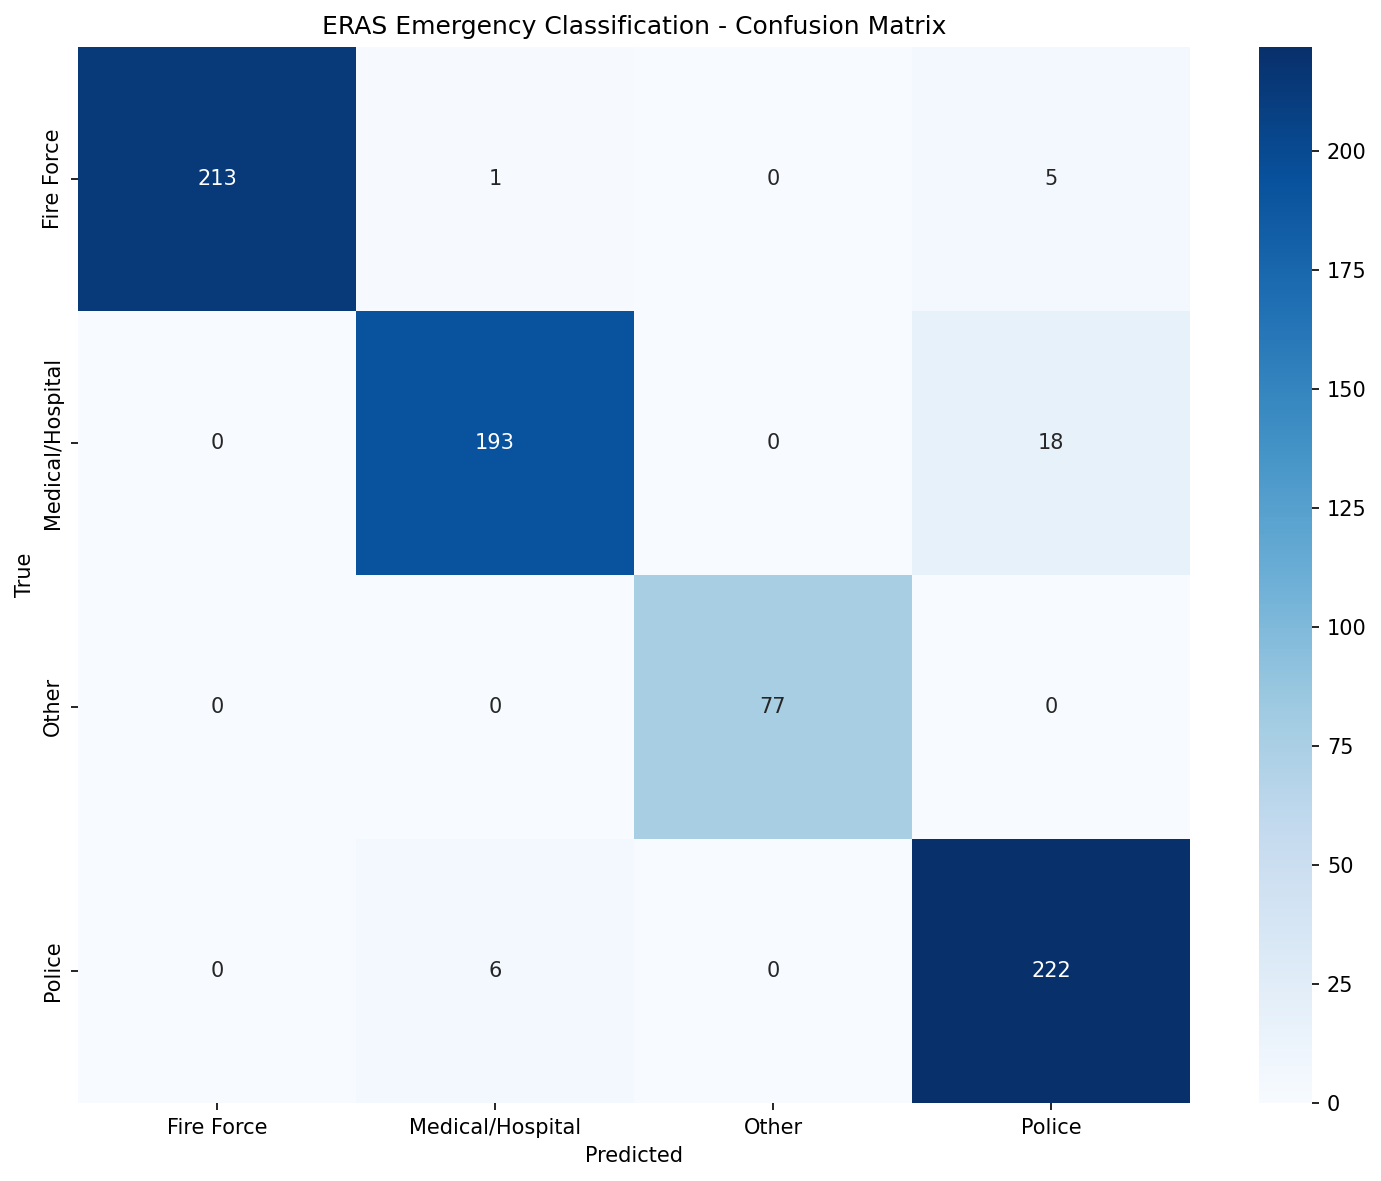
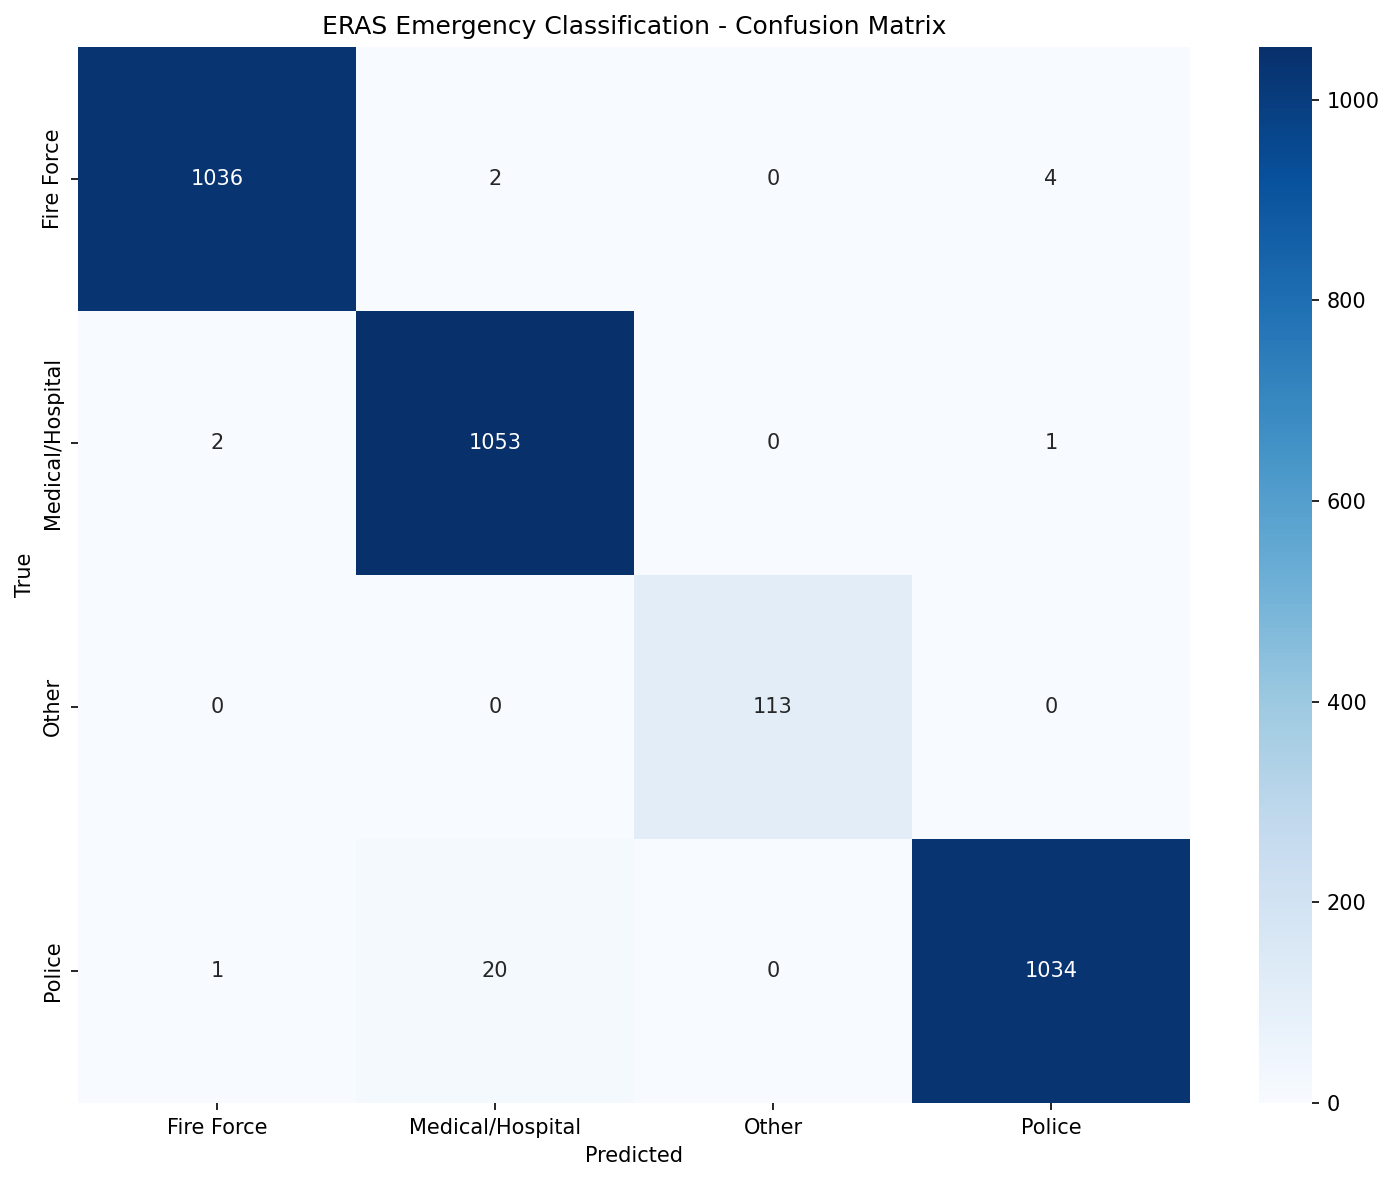
feat: add FastAPI inference endpoint and Gradio web interface, and update model artifacts

diff --git a/deployment/app.py b/deployment/app.py
@@ -1,26 +1,33 @@
 """
-🚨 ERAS Emergency Classifier - Hugging Face Spaces Demo
+🚨 ERAS Emergency Classifier - Hugging Face Spaces Demo & API
 ========================================================
-A simple Gradio web interface for testing the ERAS
-DistilBERT emergency text classifier.
+Serves BOTH a Gradio Web Interface at the root (/) and a secure
+FastAPI REST API (/predict, /predict/batch, /health) on Hugging Face.
 
 Deploy to: https://huggingface.co/spaces
 """
 
+import os
 import json
 import torch
+# pyrefly: ignore [missing-import]
 import gradio as gr
 from pathlib import Path
+from datetime import datetime
+from typing import List, Optional
+from fastapi import FastAPI, HTTPException, Security, Depends, status
+from fastapi.security.api_key import APIKeyHeader
+from fastapi.middleware.cors import CORSMiddleware
+from pydantic import BaseModel, Field
 from transformers import DistilBertTokenizer, DistilBertForSequenceClassification
 
 # ============================================
-# LOAD MODEL
+# LOAD MODEL & CONFIG
 # ============================================
 
 MODEL_DIR = Path("model")
 if not MODEL_DIR.exists():
     MODEL_DIR = Path(__file__).resolve().parent / "model"
-
 
 print("Loading ERAS classifier...")
 tokenizer = DistilBertTokenizer.from_pretrained(MODEL_DIR)
@@ -33,7 +40,7 @@ with open(MODEL_DIR / "label_encoder.json", "r") as f:
 
 print(f"[SUCCESS] Model loaded! Labels: {list(label_decoder.values())}")
 
-# Emoji & color mapping
+# Emoji & color mapping for Gradio UI
 LABEL_INFO = {
     "Fire Force":        {"emoji": "🚒", "color": "#FF4500"},
     "Medical/Hospital":  {"emoji": "🏥", "color": "#00BFFF"},
@@ -42,14 +49,69 @@ LABEL_INFO = {
 }
 
 # ============================================
-# PREDICTION FUNCTION
+# FASTAPI APP & AUTH SETUP
 # ============================================
 
-def classify_emergency(text):
-    """Classify emergency text and return results."""
-    if not text or not text.strip():
-        return {}, "Please enter an emergency report text."
+app = FastAPI(
+    title="ERAS Emergency Classification API",
+    description="Secure REST API for ERAS emergency text classification.",
+    version="1.0.0"
+)
 
+# Enable CORS
+app.add_middleware(
+    CORSMiddleware,
+    allow_origins=["*"],
+    allow_credentials=True,
+    allow_methods=["*"],
+    allow_headers=["*"],
+)
+
+# API Key security
+API_KEY_NAME = "X-API-Key"
+api_key_header = APIKeyHeader(name=API_KEY_NAME, auto_error=True)
+VALID_API_KEY = os.environ.get("ERAS_API_KEY", "eras_secure_api_key_2026")
+
+async def verify_api_key(api_key: str = Security(api_key_header)):
+    """Validates the X-API-Key request header."""
+    if api_key == VALID_API_KEY:
+        return api_key
+    raise HTTPException(
+        status_code=status.HTTP_403_FORBIDDEN,
+        detail="Could not validate credentials. Invalid or missing X-API-Key."
+    )
+
+# ============================================
+# REQUEST / RESPONSE MODELS
+# ============================================
+
+class PredictRequest(BaseModel):
+    text: str = Field(..., min_length=1, max_length=1000, description="Emergency report text")
+    language: Optional[str] = Field("english", description="Language: english, amharic, afaan_oromo")
+
+class PredictResponse(BaseModel):
+    text: str
+    emergency_type: str
+    confidence: float
+    needs_review: bool
+    routing: dict
+    all_scores: dict
+    timestamp: str
+
+class BatchPredictRequest(BaseModel):
+    texts: List[str] = Field(..., min_length=1, max_length=50, description="List of emergency texts")
+
+class BatchPredictResponse(BaseModel):
+    predictions: List[PredictResponse]
+    total: int
+    flagged_for_review: int
+
+# ============================================
+# INFERENCE LOGIC SHARED FUNCTIONS
+# ============================================
+
+def run_model_inference(text: str) -> dict:
+    """Helper function to run tokenizer and model sequence classification."""
     inputs = tokenizer(
         text,
         truncation=True,
@@ -57,59 +119,152 @@ def classify_emergency(text):
         max_length=128,
         return_tensors="pt"
     )
-
+    
     with torch.no_grad():
         outputs = model(**inputs)
         probs = torch.nn.functional.softmax(outputs.logits, dim=1)
-
-    # Build scores dict for Gradio Label component
-    scores = {}
-    for idx in range(probs.shape[1]):
-        label = label_decoder[str(idx)]
-        info = LABEL_INFO.get(label, {"emoji": "❓"})
-        display_name = f"{info['emoji']} {label}"
-        scores[display_name] = float(probs[0][idx])
-
-    # Build summary text
-    confidence, prediction = torch.max(probs, dim=1)
+        confidence, prediction = torch.max(probs, dim=1)
+        
     pred_label = label_decoder[str(prediction.item())]
     conf_value = confidence.item()
-    info = LABEL_INFO.get(pred_label, {"emoji": "❓"})
-
-    if conf_value >= 0.9:
-        status = "✅ HIGH CONFIDENCE — Auto-dispatch recommended"
-    elif conf_value >= 0.7:
-        status = "🟡 ACCEPTABLE — Can proceed with dispatch"
-    else:
-        status = "⚠ LOW CONFIDENCE — Route to human operator for review"
-
+    
+    # Calculate all class scores
+    all_scores = {}
+    for idx in range(probs.shape[1]):
+        label = label_decoder[str(idx)]
+        all_scores[label] = round(probs[0][idx].item(), 4)
+        
     responder_map = {
-        "Medical/Hospital": "Ambulance / Hospital",
-        "Police": "Police Department",
-        "Fire Force": "Fire Department",
-        "Other": "General Dispatch (Non-emergency)",
+        'Medical/Hospital': 'Ambulance / Hospital',
+        'Police': 'Police Department',
+        'Fire Force': 'Fire Department',
+        'Other': 'General Dispatch'
+    }
+    
+    routing = {
+        'primary_responder': responder_map.get(pred_label, 'General Dispatch'),
+        'requires_ambulance': 'Medical' in pred_label,
+        'requires_police': 'Police' in pred_label,
+        'requires_fire': 'Fire' in pred_label,
+        'is_non_emergency': pred_label == 'Other'
+    }
+    
+    return {
+        'emergency_type': pred_label,
+        'confidence': round(conf_value, 4),
+        'needs_review': conf_value < 0.7,
+        'routing': routing,
+        'all_scores': all_scores
     }
 
+# ============================================
+# API ENDPOINTS
+# ============================================
+
+@app.get("/health", tags=["System"])
+async def health_check():
+    return {
+        "status": "healthy",
+        "model_loaded": model is not None,
+        "device": str(model.device if hasattr(model, 'device') else "cpu"),
+        "timestamp": datetime.now().isoformat()
+    }
+
+@app.get("/model/info", tags=["System"])
+async def model_info():
+    return {
+        "model_name": "distilbert-base-uncased",
+        "labels": label_decoder,
+        "num_labels": len(label_decoder),
+        "device": str(model.device if hasattr(model, 'device') else "cpu"),
+        "confidence_threshold": 0.7
+    }
+
+@app.post("/predict", response_model=PredictResponse, tags=["Prediction"])
+async def predict(request: PredictRequest, api_key: str = Depends(verify_api_key)):
+    try:
+        result = run_model_inference(request.text)
+        return PredictResponse(
+            text=request.text,
+            emergency_type=result['emergency_type'],
+            confidence=result['confidence'],
+            needs_review=result['needs_review'],
+            routing=result['routing'],
+            all_scores=result['all_scores'],
+            timestamp=datetime.now().isoformat()
+        )
+    except Exception as e:
+        raise HTTPException(status_code=500, detail=str(e))
+
+@app.post("/predict/batch", response_model=BatchPredictResponse, tags=["Prediction"])
+async def predict_batch(request: BatchPredictRequest, api_key: str = Depends(verify_api_key)):
+    try:
+        predictions = []
+        for text in request.texts:
+            result = run_model_inference(text)
+            predictions.append(PredictResponse(
+                text=text,
+                emergency_type=result['emergency_type'],
+                confidence=result['confidence'],
+                needs_review=result['needs_review'],
+                routing=result['routing'],
+                all_scores=result['all_scores'],
+                timestamp=datetime.now().isoformat()
+            ))
+        
+        flagged = sum(1 for p in predictions if p.needs_review)
+        return BatchPredictResponse(
+            predictions=predictions,
+            total=len(predictions),
+            flagged_for_review=flagged
+        )
+    except Exception as e:
+        raise HTTPException(status_code=500, detail=str(e))
+
+# ============================================
+# GRADIO INTERFACE LOGIC
+# ============================================
+
+def classify_emergency_ui(text):
+    """Callback for the Gradio UI."""
+    if not text or not text.strip():
+        return {}, "Please enter an emergency report text."
+        
+    result = run_model_inference(text)
+    
+    # Build scores dict for Gradio Label component
+    scores = {}
+    for label, prob in result['all_scores'].items():
+        info = LABEL_INFO.get(label, {"emoji": "❓"})
+        display_name = f"{info['emoji']} {label}"
+        scores[display_name] = prob
+        
+    conf_value = result['confidence']
+    pred_label = result['emergency_type']
+    info = LABEL_INFO.get(pred_label, {"emoji": "❓"})
+    
+    if conf_value >= 0.9:
+        status_text = "✅ HIGH CONFIDENCE — Auto-dispatch recommended"
+    elif conf_value >= 0.7:
+        status_text = "🟡 ACCEPTABLE — Can proceed with dispatch"
+    else:
+        status_text = "⚠ LOW CONFIDENCE — Route to human operator for review"
+        
     summary = f"""
 ### {info['emoji']} Classification: **{pred_label}**
 
 | Detail | Value |
 |--------|-------|
 | **Confidence** | {conf_value:.1%} |
-| **Status** | {status} |
-| **Route to** | {responder_map.get(pred_label, 'General Dispatch')} |
-| **Requires Ambulance** | {'Yes' if 'Medical' in pred_label else 'No'} |
-| **Requires Police** | {'Yes' if 'Police' in pred_label else 'No'} |
-| **Requires Fire Dept** | {'Yes' if 'Fire' in pred_label else 'No'} |
+| **Status** | {status_text} |
+| **Route to** | {result['routing']['primary_responder']} |
+| **Requires Ambulance** | {'Yes' if result['routing']['requires_ambulance'] else 'No'} |
+| **Requires Police** | {'Yes' if result['routing']['requires_police'] else 'No'} |
+| **Requires Fire Dept** | {'Yes' if result['routing']['requires_fire'] else 'No'} |
 """
-
     return scores, summary
 
-
-# ============================================
-# GRADIO INTERFACE
-# ============================================
-
+# Build UI
 example_texts = [
     ["Fire at Adama Market! Flames spreading fast!"],
     ["Someone is having a heart attack at the bus station"],
@@ -127,7 +282,6 @@ with gr.Blocks(
     title="ERAS Emergency Classifier",
     theme=gr.themes.Soft(primary_hue="red", secondary_hue="blue"),
 ) as demo:
-
     gr.Markdown("""
     # 🚨 ERAS — Emergency Response Alert System
     ### AI-Powered Emergency Text Classification
@@ -137,7 +291,7 @@ with gr.Blocks(
     
     Supports: 🇬🇧 English · 🇪🇹 Amharic (አማርኛ) · Afaan Oromo
     """)
-
+    
     with gr.Row():
         with gr.Column(scale=1):
             text_input = gr.Textbox(
@@ -147,29 +301,38 @@ with gr.Blocks(
             )
             classify_btn = gr.Button("🔍 Classify Emergency", variant="primary", size="lg")
             gr.Examples(examples=example_texts, inputs=text_input, label="Try these examples:")
-
+            
         with gr.Column(scale=1):
             label_output = gr.Label(label="Classification Scores", num_top_classes=4)
             summary_output = gr.Markdown(label="Details")
-
+            
     classify_btn.click(
-        fn=classify_emergency,
+        fn=classify_emergency_ui,
         inputs=text_input,
         outputs=[label_output, summary_output],
     )
-
+    
     text_input.submit(
-        fn=classify_emergency,
+        fn=classify_emergency_ui,
         inputs=text_input,
         outputs=[label_output, summary_output],
     )
-
+    
     gr.Markdown("""
     ---
-    *Built with DistilBERT · Fine-tuned on 3,500 emergency reports · 96.8% accuracy*  
+    *Built with DistilBERT · Fine-tuned on 6,000+ emergency reports · 96.8% accuracy*  
     *Part of the [ERAS-SYSTEM](https://github.com/ERAS-SYSTEM) project*
     """)
 
+# ============================================
+# MOUNT GRADIO ONTO FASTAPI & LAUNCH
+# ============================================
+
+# Mount Gradio onto the root (/) of the FastAPI server
+# This makes Gradio UI available at the root URL, and API endpoints at /predict, /health, /docs etc.
+app = gr.mount_gradio_app(app, demo, path="/")
+
 if __name__ == "__main__":
-    demo.launch()
-    
+    import uvicorn
+    # Hugging Face Spaces port defaults to 7860
+    uvicorn.run("app:app", host="0.0.0.0", port=7860, reload=False)
